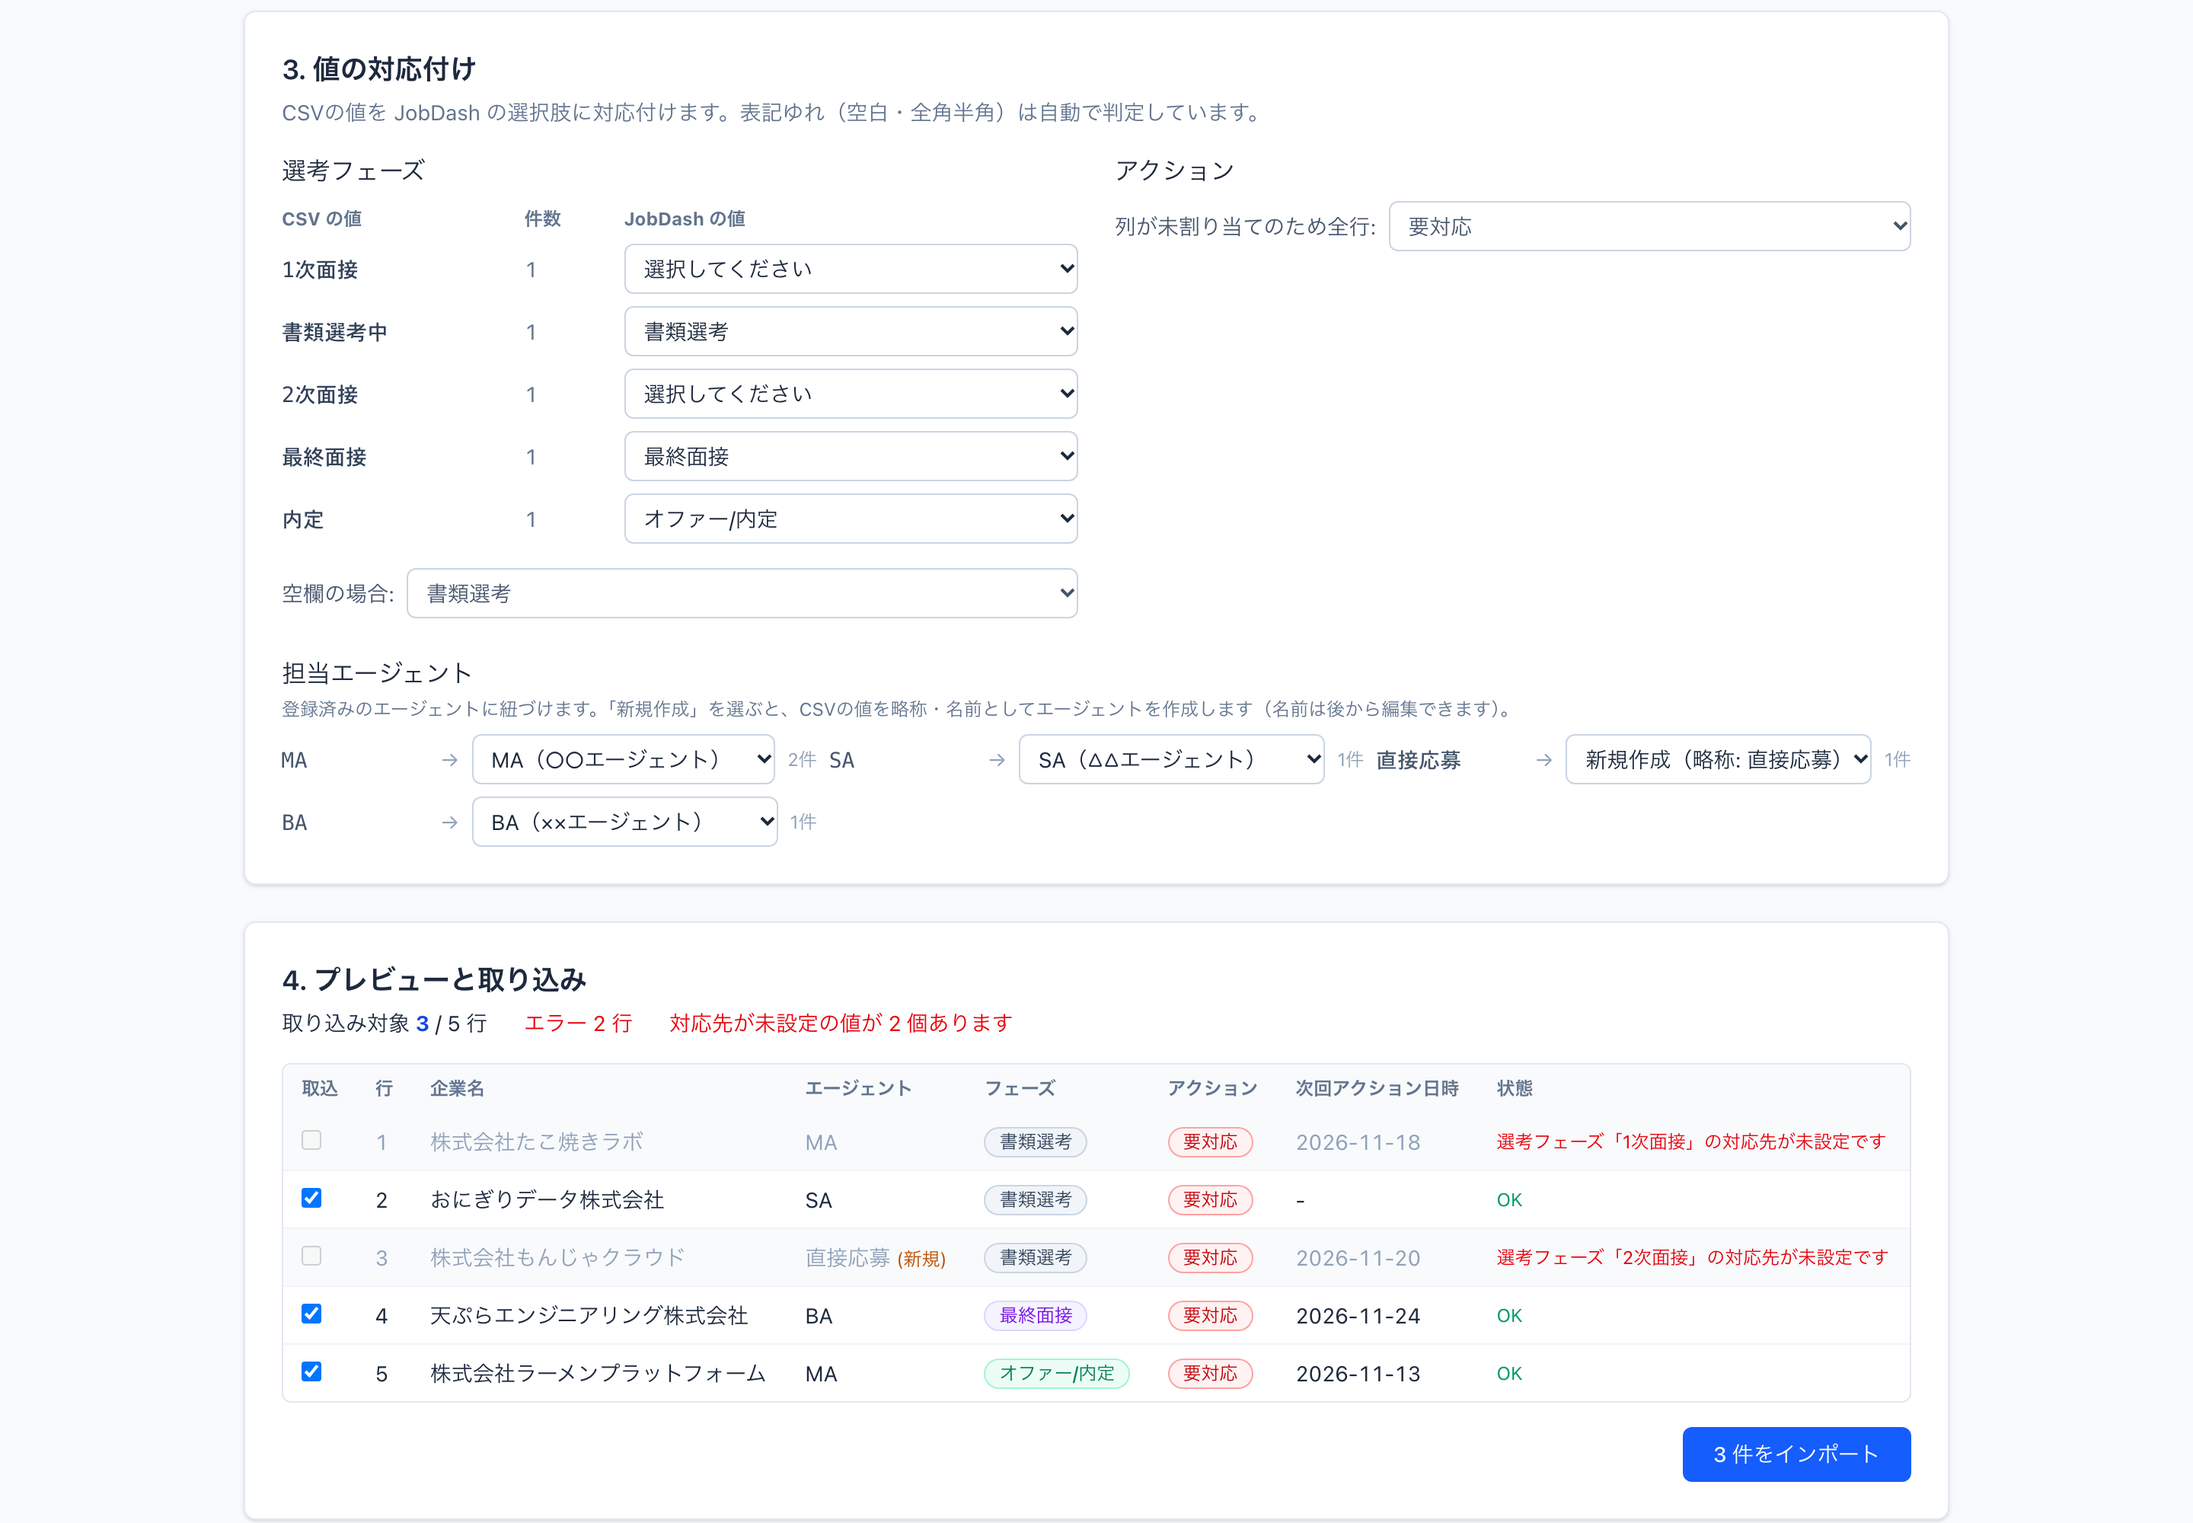
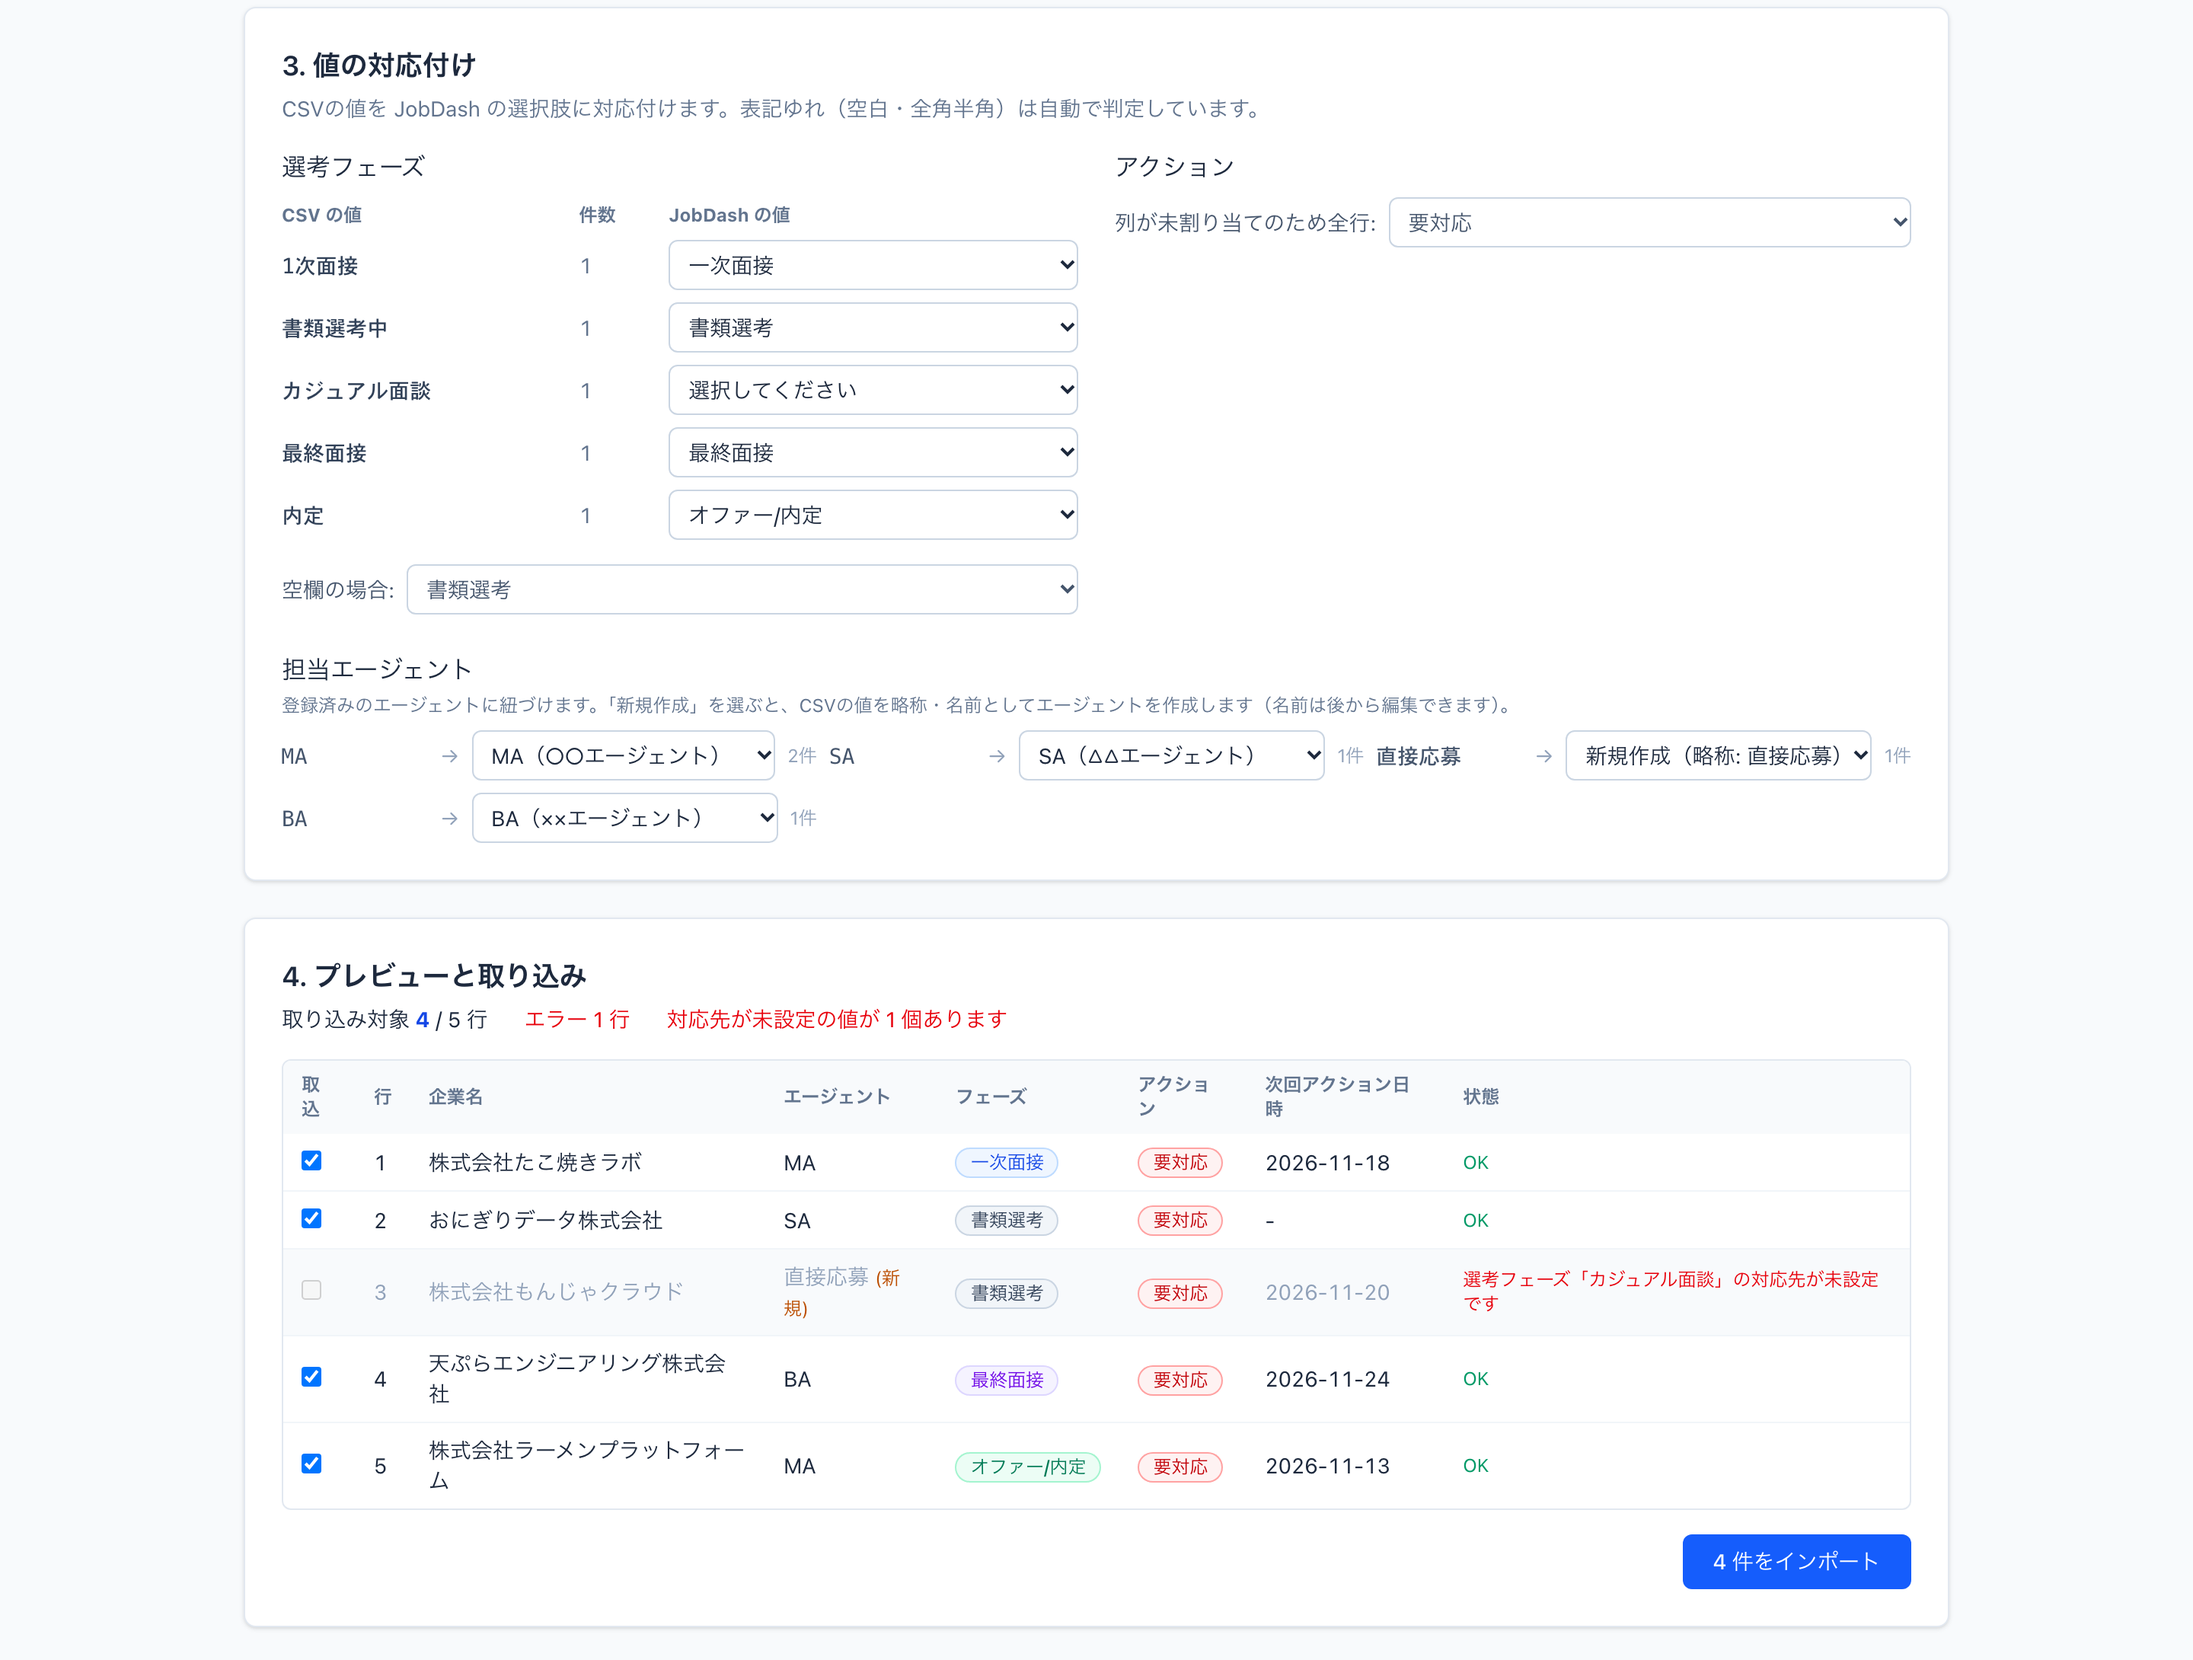
Retake the CSV import screenshot after the ordinal mapping fix

diff --git a/site/index.html b/site/index.html
@@ -234,8 +234,8 @@
               <img
                 src="images/csv-import.png"
                 width="1440"
-                height="1000"
-                alt="CSV インポートの値の対応付けとプレビュー。対応先が未設定の行はエラーとして取り込み対象から外れている"
+                height="1090"
+                alt="CSV インポートの値の対応付けとプレビュー。「1次面接」は一次面接に自動で対応付けられ、対応先のない「カジュアル面談」の行はエラーとして取り込み対象から外れている"
               />
             </figure>
           </article>
